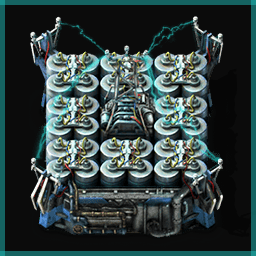
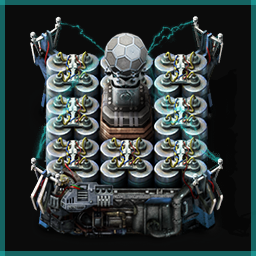
1.1+ 1.2 (nerf + setting + resprite)

diff --git a/README.md b/README.md
@@ -1,0 +1,7 @@
+A configurable big accumulator that contains the capacity of 24 normal ones, but takes 4 times the space, which is a 6x space gain.
+
+In Space-Age, it's unlocked on Fulgora.
+
+Initially planned to be a sprite replacement for Bio-industries.
+
+Sprite by me, uses parts from Repair Turret (LGPLv3) (by Klonan, SacredAnarchy), Exotic Space Industries (GNU GPLv3) (by PreLeyZero, eliont) and Vehicle Radar (MIT) (by YuokiTani)
